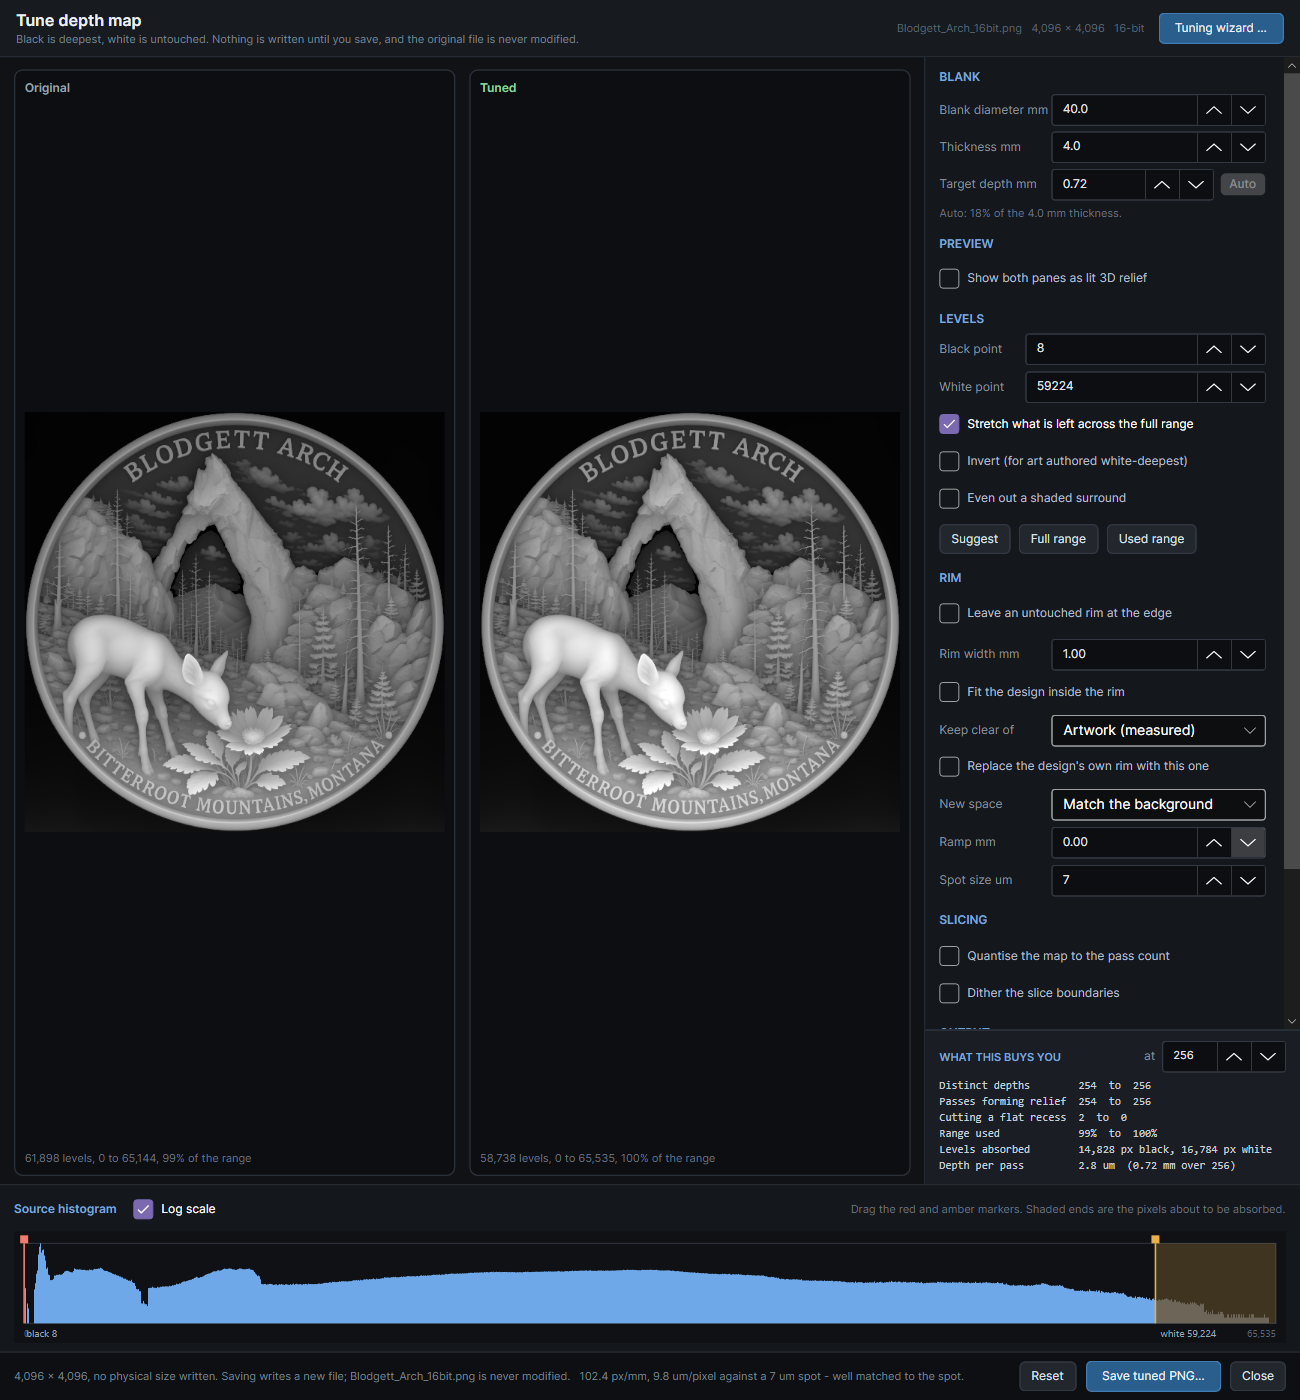
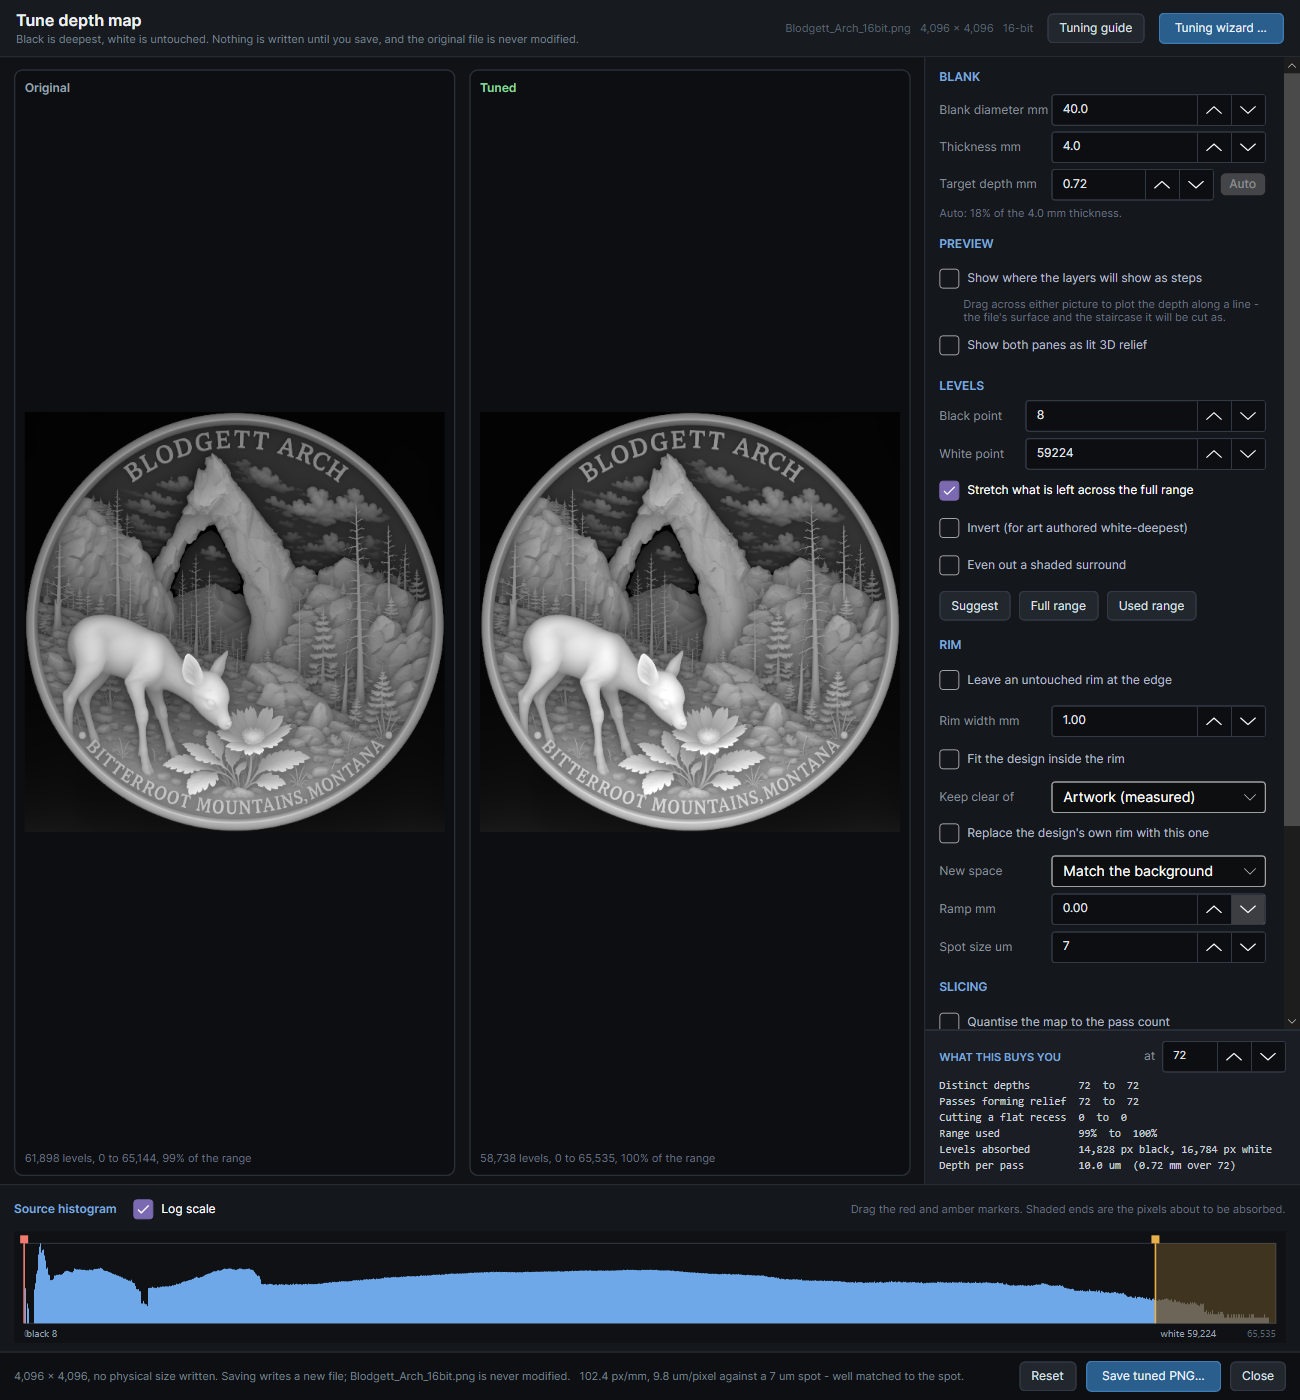
DepthView 1.9.0
Version, release notes ("What's new in 1.9.0 - where the layers will show"),
banners, and every window screenshot regenerated to show the new Help and
Tuning guide buttons.

Claude-Session: https://claude.ai/code/session_017Pr7VwciM8YzNVrBrQzypG

diff --git a/.github/RELEASE_TEMPLATE.md b/.github/RELEASE_TEMPLATE.md
@@ -2,51 +2,43 @@
      evergreen and should not need touching. gh release create puts this file first and the
      generated commit list after it, so this is what a reader sees at the top of the page. -->
 
-## What's new in 1.8.0 — a tuning wizard, and a guide to tuning
+## What's new in 1.9.0 — where the layers will show
 
-**A tuning wizard.** **Tuning wizard…**, at the top of the Tune window, asks a few questions
-about what you want the coin to be — which program will cut it, whether the background is a
-surround or a cut-away floor, what to do with a rim drawn into the art, what should be full
-depth and what should stay untouched, whether flat areas should engrave flat, how many
-layers — and shows every answer on the picture as you make it, flat or as lit metal. Each
-question shows what DepthView measured and why it matters, and one answer is marked
-*Recommended*. That is a suggestion, never a decision: the wizard only sets the Tune window's
-own controls, and **you have the final word**, there and afterwards.
+**Where the layers will show as steps.** A sliced job cuts a stack of flat layers, and every
+layer edge is a step one pass high. On a steep surface the steps crowd together and the beam
+blends them; on a gentle one - a cheek, a neck, a sky - they spread apart and show as contour
+lines, **however many bits the file has**. Tick **Show where the layers will show as steps**
+in the Tune window and DepthView marks them on both pictures, measured at full resolution
+against your spot size and pass count: amber where the flat treads either side of an edge are
+wider than the spot, red where they are more than three spots wide. The results card says
+what share of the layer edges will show, how many passes would blend nine in ten - or that
+more passes cannot help, because the file's own levels are the steps, as with an 8-bit map at
+a high layer count. Only the blank is measured; the corners of a square map are not on the
+coin.
 
-**A tuning guide.** [docs/TUNING-GUIDE.md](https://github.com/LeeGillie/DepthView/blob/main/docs/TUNING-GUIDE.md)
-tunes one coin for MakeIt and for LightBurn, change by change, then shows more coins with
-different outcomes: a drawn rim kept or replaced, a surround or a floor, an export with grid
-lines in its backdrop, and a picture of a coin that is not a depth map.
+**Depth along a line.** Drag across either picture in the Tune window to plot the depth along
+that line: the file's own surface, and the staircase it will be cut as at your pass count,
+with the spot as a scale bar.
 
-**New in the Tune window, and on the command line:**
+**LOOKS LIT, NOT DEPTH.** A grey shaded render of a relief - the kind many depth-map tools and
+marketplaces show as a preview - is not a depth map, but it used to pass as one. DepthView now
+recognises the one-sided light and shadow of a render and warns. It is a warning rather than a
+verdict until it has met many more files.
 
-- **Centre the blank on the design** (`--fit design`) for a coin drawn off-centre. It may
-  crop background, never design, and still resamples nothing. DepthView says when a design
-  sits off centre.
-- **Replace the design's own rim** (`--cover-rim`). A rim drawn into the art goes under the
-  new, untouched rim, so the coin's rim is the blank's own surface, with no trench beside it,
-  and all of the depth goes to the design.
-- **Even out a shaded surround** (`--uniform-surround`). A vignetted backdrop, or marks left
-  by the program that exported the map, is made one level so none of it is taken for design.
-- **Flat areas** (`--flat`). Nearly level areas can be flattened to one level or smoothed of
-  pixel noise, so a floor meant to be flat does not engrave speckled.
-- **Empty gaps.** When a few small pockets sit far below the rest of the design, the wizard
-  offers to close the empty range between them rather than spend layers cutting nothing.
-- `--survey` prints everything the wizard measures, and `--levels-from` takes its suggested
-  level points.
+**Help.** A new **Help** button at the top right opens the user guide and the tuning guide,
+and the Tune window has its own **Tuning guide** button. They open in your browser at the
+edition written for the version you are running, so after an update you read the guide that
+matches the program in front of you. Help also brings back these notes.
 
-**A picture is not a depth map.** A file that is mostly colour — a render, a tinted preview,
-a photograph of a coin — is now reported as **NOT A DEPTH MAP** instead of being judged on
-its few grey pixels. A batch report exits 1 for it, as it does for an imposter.
-
-For other programs: `--survey --json` is new (schema `depthview.survey/1`), and
-`depthview.tune/1` and `depthview.report/1` gain fields, none changed; see
+For other programs: `--terraces --json` is new (schema `depthview.terrace/1`), `--tune --json`
+reports the terraces before and after, and `depthview.report/1` gains `litScore` and
+`litThreshold`; nothing existing changed. See
 [docs/INTEGRATION.md](https://github.com/LeeGillie/DepthView/blob/main/docs/INTEGRATION.md).
 
 ## Updating
 
-**From 1.4.0 to 1.7.0:** the green bar will offer this release — click **Update now**.
-When 1.8.0 starts, it offers these notes.
+**From 1.4.0 to 1.8.0:** the green bar will offer this release — click **Update now**.
+When 1.9.0 starts, it offers these notes.
 
 **From 1.3.0 or earlier:** those versions cannot update themselves. Download this release by
 hand once; from then on, updates come to you.
@@ -74,9 +66,10 @@ folder and DepthView is gone.
 **Unzip it first**, somewhere you can write to — Documents or your home folder, not
 `C:\Program Files`. On Windows, right-click the zip and choose *Extract All…*.
 
-**The guides, as PDFs:** `DepthView-*-User-Guide.pdf` is the whole user guide and
-`DepthView-*-Tuning-Guide.pdf` the tuning guide, for reading offline or printing. Both are
-made from the pages on GitHub, which stay the authoritative version.
+**The guides:** inside the program, **Help** opens the user guide and the tuning guide for
+your version. `DepthView-*-User-Guide.pdf` and `DepthView-*-Tuning-Guide.pdf` are the same
+guides for reading offline or printing, made from the pages on GitHub, which stay the
+authoritative version.
 
 ## Running it
 
